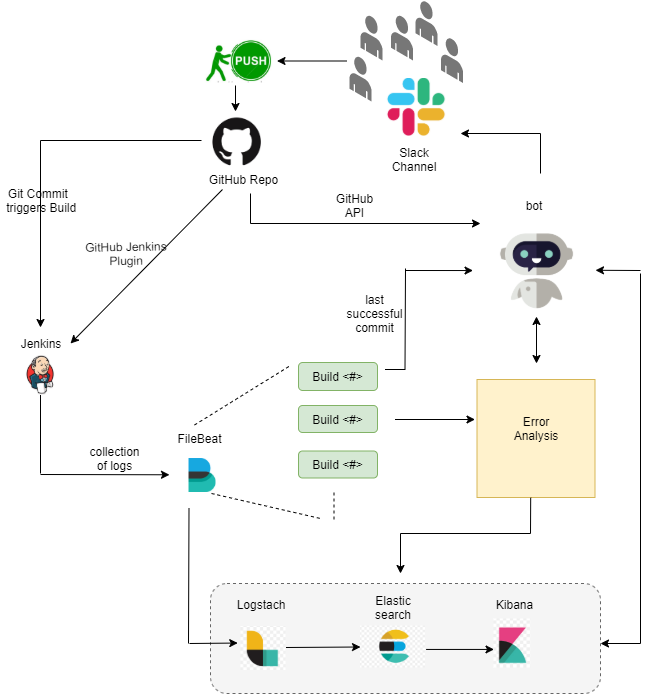
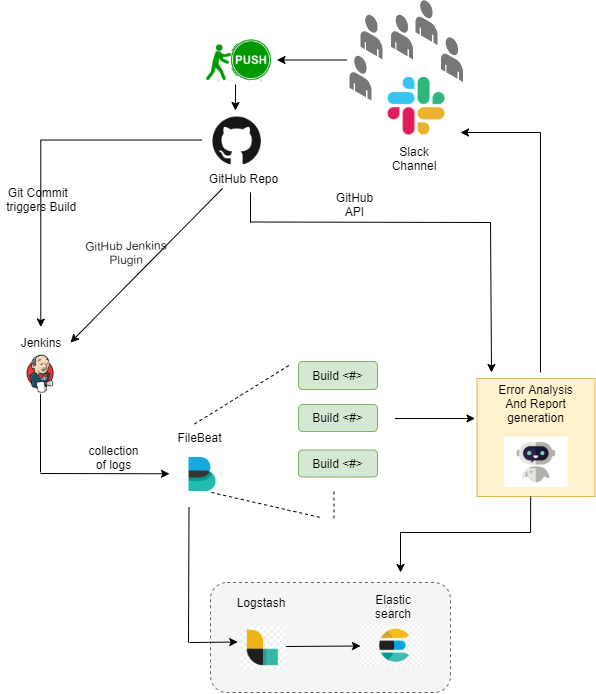
Feedback fix

diff --git a/DESIGN.md b/DESIGN.md
@@ -12,12 +12,22 @@ Having this information accessible at a common place and ability to fetch them e
 
 # Bot Description
 
-We are planning to design and implement a log analysis and error reporting bot which fetches the data from Elasticsearch and presents it to the users in the form of a report. The bot can be integrated into a slack channel where all developers can be informed with the above data and can participate in discussions to debug errors or improve the performance of the software.
+We are planning to design and implement a log analysis and error reporting bot which fetches and parses the Jenkins build logs and presents it to the users in the form of a report. The bot can be integrated into a slack channel where all developers can be informed with the above data and can participate in discussions to debug errors or improve the performance of the software.
 
-Our implementation has a central repository where all the build information from Jenkins is stored and analysed using ELK stack. Our bot fetches the required information from the Elasticsearch and presents a summarized report onto the slack channel of developers. If the Devs want to look at a detailed report of things, they can access the kibana dashboard using the link provided by the bot. Also, the users can request for analysis/report of a particular build by specifying the build number to the bot through the slack channel.
+Our implementation has a central repository where all the build information from Jenkins is stored and analysed using Elasticsearch and Logstash. Our bot fetches generates a report for each build failure and presents it onto the slack channel of developers. If the Devs want to look at a detailed report of things, they can access the bot dashboard.
+
+Jenkins build failures can be categorized into categories like:
+* Code Errors (i.e failed test cases): Semantical Errors, Network request errors, Programatical errors, Dependency errors
+* Jenkins Errors: Missing softwares and packages eg: NPM not found, Missing artifacts, System errors  
+
+Our report will provide analysis of above errors which are occuring the most over the course of multiple build failures. With respect to code errors, we can further classify them into Semantical Errors, Network request errors, Programatical errors, Dependency errors and analyze which test cases fail the most and what types of errors occur the most.
+
+We use Logstash to parse and fiter the logs to fetch the errors and reasons from these logs (Eg: In index.js: Line 26: File not found). Using Elasticsearch, we index this data so that it would be easy for us to query the data to perform aggregate analysis. Our bot will be an application which would query the Elasticsearch to fetch these errors along with the reason of failures, perform analysis of errors, generate the report and post it onto the slack channel. We can also use this same application to provide a more detailed view of the report. Use of Logstash and Elasticsearch will help us store historical data and make the process parsing, filtering and querying easier.
+
+This will help the developers to identify the commom points of failures types of failures and trends in failures. This will give developers a rolled up view of the project and fix the frequently failing components. This type of aggregated analysis is not available in through Jenkins logs where everything is a dump of text. Thus having all the analytics in one place, in a systematic format will also help our cause.   
 
 # Use Cases
-1. Use Case 1:
+1. Use Case 1: Get report of a specific build
     1.  Precondition :  User must have Github APi token in Jenkins, install bot in slack . Also a web hook of Github to Jenkins to capture the commits.
   
     2. Main Flow:User will request the built status by providing the built number. Bot will provide the built status and the error information related to the build.
@@ -30,17 +40,17 @@ Our implementation has a central repository where all the build information from
   
     4. Alternate flow: Build passes successfully and there are no failures.
 
-1. Use Case 2:
-    1.  Precondition : User must install our bot in slack . 
+1. Use Case 2: Detailed report of overall error analysis
+    1.  Precondition : User must install our bot in slack. 
   
     2. Main Flow: User will request the built analysis from the bot . Bot will provide the link to the dashboard with the visualizations displaying the requested built.
   
     3. Subflows:
-        * User will request the built history visualization using the command built_vis@****
+        * User will request the built history visualization using the command show_vis
 
-        * Bot will provide the link to the dashboard presenting different visualizations for the built provided. 
+        * Bot will provide the link to the dashboard presenting visualizations of frequency distribution of errors, statistics on most failing test cases and common errors associated to frequnetly failing test cases. 
 
-1. Use Case 3:
+1. Use Case 3: Build status actions
     1.  Precondition : Install GitHub Jenkins plugin. Jenkins system must have Github API tokens. Github must contain the Jenkins environment URL in the Webhook section. 
   
     2. Main Flow: Users will commit the changes and push it to Github Repository [S1]. Post-Commit webhook will trigger the Build process for Jenkins [S2]. Bot finds out the cause of Build failure [S3]. Highlight the changes by comparing it with previous "Successful Builds" [S4].
@@ -89,10 +99,7 @@ Bot accesses the commit link of the last successful commit and the current faile
 
 ### FileBeat
 
-To export the log information to both the ELK stack and also the bot, we would use fileBeat as a centralized log data store
-
-File beat ships log data to the Logstash, Since filebeat is a pull request there won’t be much load on to the jenkins server. 
-
+To export the log information from Jenkins to Logstash, we would use fileBeat. Filebeat monitors the Jenkins log files and automatically sends the new data to Logstash
 
 ### Logstash
 
@@ -106,13 +113,6 @@ Elasticsearch is an open-source full-text search and analytics engine. We use it
 
 We have the capability to store the log information of multiple users, coming from multiple jenkins servers
 
-Kibana also accesses the information from here as it is structured and can be used for visualization
-
-### Kibana
-
-We are using  an open-source data visualization tool  for log and time-series analytics, application monitoring
-
-Some  features of interest from the users build status can be specifically targeted as data points that are to be visualised by kibana
 
 ### Slack
 
@@ -130,7 +130,7 @@ Using a specific  channel to interact with bot to get information. Slack acts as
 
 ![Constraint 2](/Images/Constraints2.png)
 
-3. Delay in letting the users know the status of Build due to the latency induced by ELK Stack (Elasticsearch, Logstash, and Kibana).
+3. Delay in letting the users know the status of Build due to the latency induced by ELK Stack (Elasticsearch, Logstash).
 
 ## Additional patterns
 
